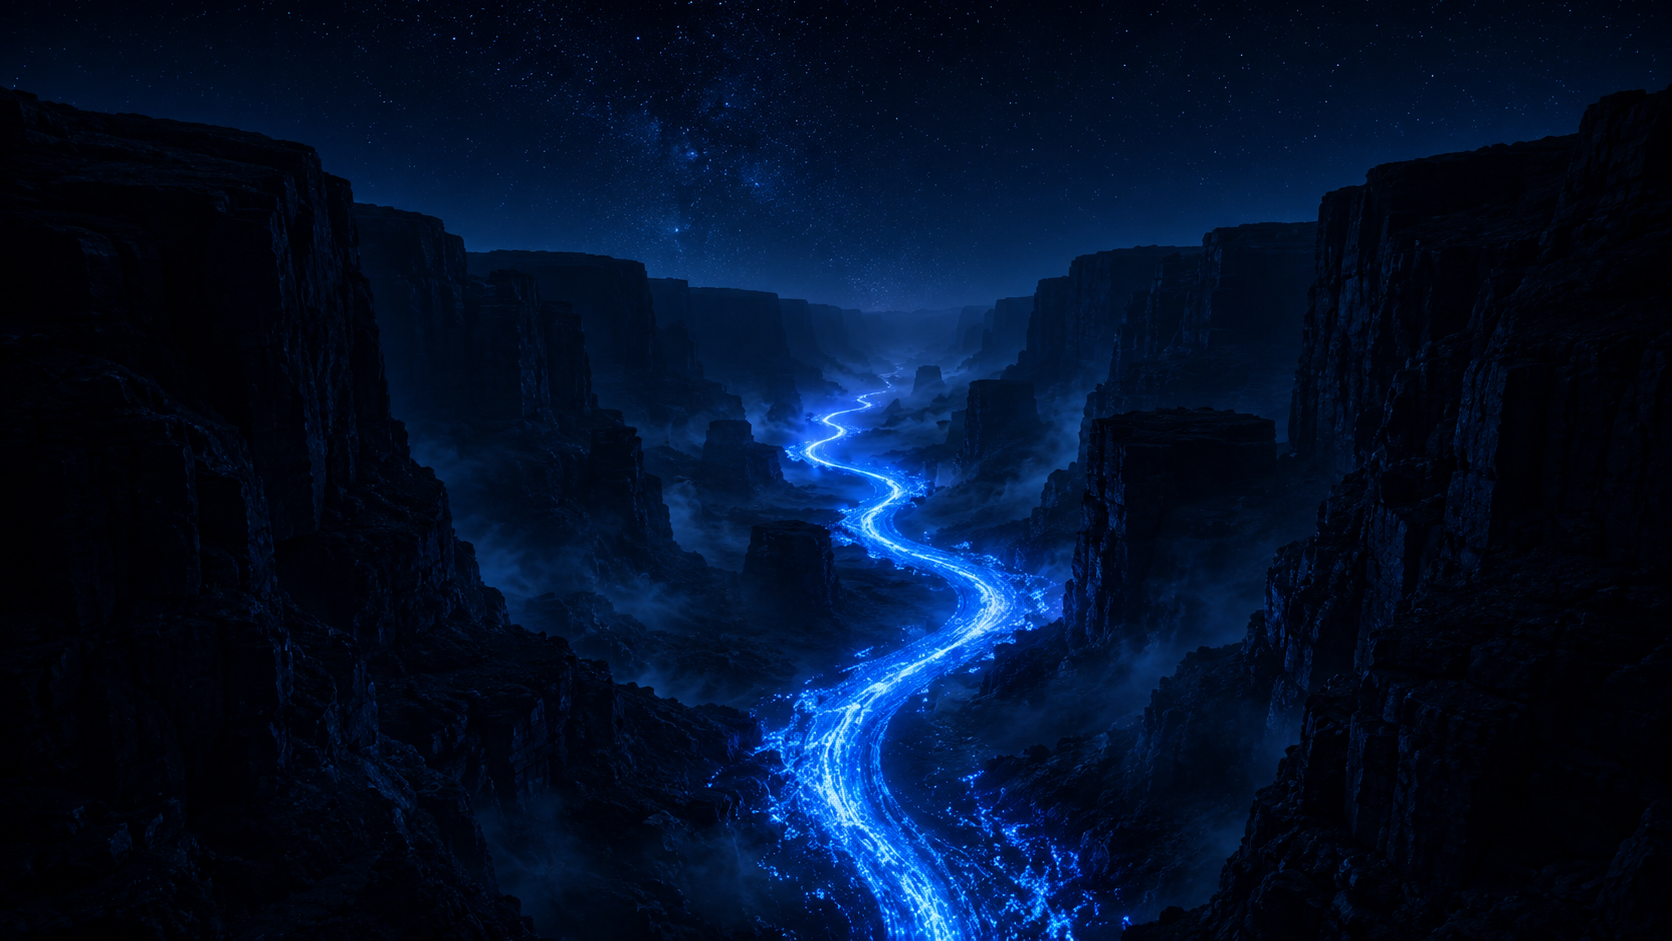
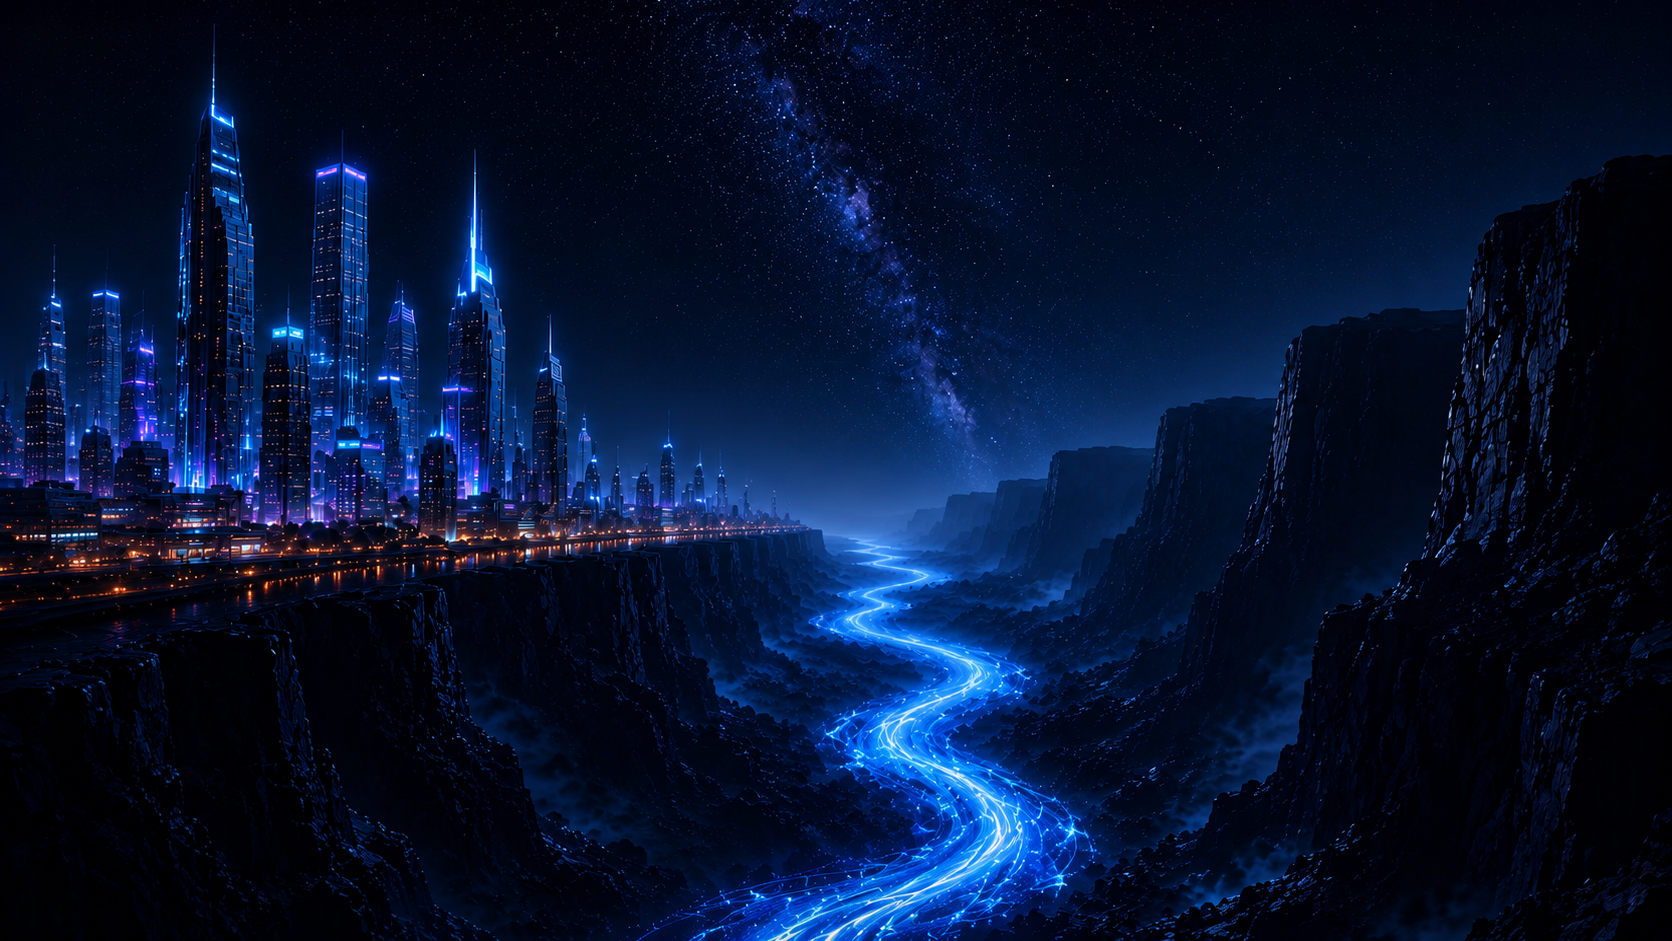
feat: add emissive window textures for enhanced city lighting; update hero section images and paths for improved visuals

diff --git a/components/Intro/scene/CityScape.tsx b/components/Intro/scene/CityScape.tsx
@@ -4,7 +4,7 @@ import { useLayoutEffect, useMemo, useRef } from "react";
 import { useFrame } from "@react-three/fiber";
 import * as THREE from "three";
 import { INTRO_DURATION, clamp01, windowProgress } from "./timeline";
-import { getWindowGridTexture } from "./glowTexture";
+import { getWindowGridTexture, getWindowEmissiveTexture } from "./glowTexture";
 import { STAR_POSITION } from "./path";
 
 function seeded(i: number, salt: number) {
@@ -61,6 +61,22 @@ export function CityScape({ isMobile }: { isMobile: boolean }) {
     return { tower, round, podium };
   }, []);
 
+  // Emissive counterpart to windowMaps, same repeats so the glow mask
+  // lines up pane-for-pane with the diffuse grid it's layered under.
+  const windowEmissiveMaps = useMemo(() => {
+    const base = getWindowEmissiveTexture();
+    const tower = base.clone();
+    tower.repeat.set(3, 9);
+    tower.needsUpdate = true;
+    const round = base.clone();
+    round.repeat.set(5, 9);
+    round.needsUpdate = true;
+    const podium = base.clone();
+    podium.repeat.set(4, 2.5);
+    podium.needsUpdate = true;
+    return { tower, round, podium };
+  }, []);
+
   const data = useMemo(() => {
     const dummy = new THREE.Object3D();
     const buildingMatrices: THREE.Matrix4[] = [];
@@ -104,12 +120,15 @@ export function CityScape({ isMobile }: { isMobile: boolean }) {
       // to still land in frame than a distant one does), which is why
       // the skyline used to only "arrive" several seconds in once the
       // camera had flown far enough for its own offset to look small
-      // by comparison. Pulling the near end of the range inward tapers
-      // buildings closer to the road the nearer they are to the start,
-      // so a chunk of skyline is reliably inside the frustum from the
-      // very first frame instead of leaving it to chance.
+      // by comparison. Shrinking the *spread* (not the floor) tapers
+      // these buildings toward the near edge of the flanking band the
+      // nearer they are to the start, so a chunk of skyline is reliably
+      // inside the frustum from the very first frame — the floor stays
+      // fixed at 11 (HighwayRoad's plane is only 8 units to its edge;
+      // see the x >= 11 invariant documented in Ground.tsx) so this
+      // never pulls a building onto the road itself.
       const startBias = clamp01((z - 15) / 40);
-      const x = side * (11 - startBias * 6 + seeded(i, 1) * (24 - startBias * 8));
+      const x = side * (11 + seeded(i, 1) * (24 - startBias * 16));
       // How close this building sits to the star waiting at the end of
       // the highway — buildings in that final stretch are the ones the
       // star's own light actually washes over as the camera arrives, so
@@ -235,7 +254,13 @@ export function CityScape({ isMobile }: { isMobile: boolean }) {
       dummy.rotation.set(0, 0, 0);
       dummy.updateMatrix();
       windowAMatrices.push(dummy.matrix.clone());
-      windowAColors.push(new THREE.Color(accent));
+      // Lerped toward white rather than the raw accent hue — a flat
+      // saturated color under additive blending still reads as a
+      // colored strip, not a light that's actually switched on; mixing
+      // in white pushes every channel up (not just the ones the accent
+      // already maxes out), which is what makes it read as a bright,
+      // hot light source instead of a tinted panel.
+      windowAColors.push(new THREE.Color(accent).lerp(new THREE.Color("#ffffff"), 0.4));
 
       // Facade B: the opposite edge, so towers still glow when the
       // path curves and briefly reveals their far side.
@@ -249,7 +274,10 @@ export function CityScape({ isMobile }: { isMobile: boolean }) {
       dummy.updateMatrix();
       windowBMatrices.push(dummy.matrix.clone());
       windowBColors.push(
-        new THREE.Color(ACCENTS[Math.floor(seeded(i, 62) * ACCENTS.length)])
+        new THREE.Color(ACCENTS[Math.floor(seeded(i, 62) * ACCENTS.length)]).lerp(
+          new THREE.Color("#ffffff"),
+          0.4
+        )
       );
 
       // A random subset of tall (non-round) buildings tapers into a
@@ -285,7 +313,7 @@ export function CityScape({ isMobile }: { isMobile: boolean }) {
       dummy.updateMatrix();
       roofGlowMatrices.push(dummy.matrix.clone());
       roofGlowColors.push(
-        new THREE.Color(accent).lerp(new THREE.Color("#ffffff"), starProximity * 0.55)
+        new THREE.Color(accent).lerp(new THREE.Color("#ffffff"), 0.3 + starProximity * 0.55)
       );
 
       // Parapet ledge — a slight overhang where a box tower's walls
@@ -502,22 +530,23 @@ export function CityScape({ isMobile }: { isMobile: boolean }) {
     // brighter on a smaller screen, same reasoning as the body albedo
     // and rig light intensity above.
     const mobileBoost = isMobile ? 0.14 : 0;
-    const windowOpacity = Math.min(1, 0.9 + portalBoost + mobileBoost);
-
+    // Windows are lit at full opacity throughout rather than ramping up
+    // from a dimmer baseline — the city should read as already-lit
+    // from the very first frame, not gradually brightening.
     [windowsARef, windowsBRef].forEach((ref) => {
       const mat = ref.current?.material as THREE.MeshBasicMaterial | undefined;
-      if (mat) mat.opacity = windowOpacity;
+      if (mat) mat.opacity = 1;
     });
 
     const roofMat = roofGlowRef.current?.material as
       | THREE.MeshBasicMaterial
       | undefined;
-    if (roofMat) roofMat.opacity = Math.min(1, 0.35 + Math.sin(t * 1.1) * 0.15 + mobileBoost);
+    if (roofMat) roofMat.opacity = Math.min(1, 0.55 + Math.sin(t * 1.1) * 0.15 + mobileBoost);
 
     const padMat = landingPadsRef.current?.material as
       | THREE.MeshBasicMaterial
       | undefined;
-    if (padMat) padMat.opacity = Math.min(1, 0.55 + Math.sin(t * 1.6) * 0.25 + mobileBoost);
+    if (padMat) padMat.opacity = Math.min(1, 0.7 + Math.sin(t * 1.6) * 0.25 + mobileBoost);
 
     const antennaMat = antennaLightRef.current?.material as
       | THREE.MeshBasicMaterial
@@ -541,8 +570,12 @@ export function CityScape({ isMobile }: { isMobile: boolean }) {
         for (let s = 0; s < steps; s++) {
           const idx = flickerCursor.current % count;
           flickerCursor.current++;
-          const lit = seeded(idx, Math.floor(t * 0.5)) > 0.4;
-          flickerColor.set(lit ? ACCENTS[idx % ACCENTS.length] : "#050506");
+          const lit = seeded(idx, Math.floor(t * 0.5)) > 0.25;
+          if (lit) {
+            flickerColor.set(ACCENTS[idx % ACCENTS.length]).lerp(new THREE.Color("#ffffff"), 0.4);
+          } else {
+            flickerColor.set("#050506");
+          }
           meshA.setColorAt(idx, flickerColor);
           meshB.setColorAt((idx + 7) % count, flickerColor);
         }
@@ -580,10 +613,19 @@ export function CityScape({ isMobile }: { isMobile: boolean }) {
       <instancedMesh ref={buildingsRef} args={[undefined, undefined, count]}>
         <boxGeometry args={[1, 1, 1]} />
         {isMobile ? (
-          <meshLambertMaterial map={windowMaps.tower} fog />
+          <meshLambertMaterial
+            map={windowMaps.tower}
+            emissiveMap={windowEmissiveMaps.tower}
+            emissive="#ffffff"
+            emissiveIntensity={1.6}
+            fog
+          />
         ) : (
           <meshPhongMaterial
             map={windowMaps.tower}
+            emissiveMap={windowEmissiveMaps.tower}
+            emissive="#ffffff"
+            emissiveIntensity={1.4}
             specular="#3a4a66"
             shininess={22}
             fog
@@ -601,10 +643,19 @@ export function CityScape({ isMobile }: { isMobile: boolean }) {
       <instancedMesh ref={roundTowersRef} args={[undefined, undefined, count]}>
         <cylinderGeometry args={[0.72, 1, 1, 10]} />
         {isMobile ? (
-          <meshLambertMaterial map={windowMaps.round} fog />
+          <meshLambertMaterial
+            map={windowMaps.round}
+            emissiveMap={windowEmissiveMaps.round}
+            emissive="#ffffff"
+            emissiveIntensity={1.6}
+            fog
+          />
         ) : (
           <meshPhongMaterial
             map={windowMaps.round}
+            emissiveMap={windowEmissiveMaps.round}
+            emissive="#ffffff"
+            emissiveIntensity={1.4}
             specular="#3a4a66"
             shininess={22}
             fog
@@ -615,10 +666,19 @@ export function CityScape({ isMobile }: { isMobile: boolean }) {
       <instancedMesh ref={podiumsRef} args={[undefined, undefined, count]}>
         <boxGeometry args={[1, 1, 1]} />
         {isMobile ? (
-          <meshLambertMaterial map={windowMaps.podium} fog />
+          <meshLambertMaterial
+            map={windowMaps.podium}
+            emissiveMap={windowEmissiveMaps.podium}
+            emissive="#ffffff"
+            emissiveIntensity={1.6}
+            fog
+          />
         ) : (
           <meshPhongMaterial
             map={windowMaps.podium}
+            emissiveMap={windowEmissiveMaps.podium}
+            emissive="#ffffff"
+            emissiveIntensity={1.4}
             specular="#3a4a66"
             shininess={18}
             fog

diff --git a/components/sections/HeroRiverFlow.tsx b/components/sections/HeroRiverFlow.tsx
@@ -42,8 +42,13 @@ function smoothPath(points: Point[]): string {
 }
 
 // Native pixel dimensions of public/herodesktop.png / public/heromobile.png.
+// Both images were regenerated with a city skyline sharing the frame
+// with the canyon (previously canyon-only), which shifted the river
+// and — for mobile — changed the image's own aspect ratio, so both
+// this viewBox and the traced paths below had to be redone against
+// the new artwork.
 const DESKTOP_VIEWBOX = "0 0 1672 941";
-const MOBILE_VIEWBOX = "0 0 941 1672";
+const MOBILE_VIEWBOX = "0 0 853 1844";
 
 // The river's distant tip fades in gradually in the source images —
 // too faintly for the flow overlay to have any real glow to blend
@@ -52,32 +57,39 @@ const MOBILE_VIEWBOX = "0 0 941 1672";
 // bright enough to hide it in. These are the (y0, y1) bounds, in each
 // viewBox's own pixel space, over which the overlay ramps from
 // invisible to fully visible.
-const DESKTOP_FADE: [number, number] = [260, 420];
-const MOBILE_FADE: [number, number] = [560, 780];
+const DESKTOP_FADE: [number, number] = [555, 705];
+const MOBILE_FADE: [number, number] = [820, 970];
 
 const DESKTOP_PATH = smoothPath([
-  [871, 260], [872, 280], [875, 300], [879, 320], [882, 340],
-  [880, 360], [871, 380], [858, 400], [844, 420], [839, 440],
-  [844, 460], [853, 480], [863, 500], [880, 520], [896, 540],
-  [913, 560], [936, 580], [957, 600], [967, 620], [964, 640],
-  [950, 660], [926, 680], [896, 700], [871, 720], [852, 740],
-  [840, 760], [837, 780], [843, 800], [853, 820], [868, 840],
-  [884, 860], [898, 880], [911, 900], [918, 920], [923, 940],
+  [897, 555], [897, 565], [891, 575], [890, 585], [883, 595],
+  [872, 605], [870, 615], [882, 625], [897, 635], [919, 645],
+  [943, 655], [959, 665], [965, 675], [960, 685], [946, 695],
+  [930, 705], [914, 715], [903, 725], [898, 735], [901, 745],
+  [910, 755], [925, 765], [941, 775], [956, 785], [973, 795],
+  [986, 805], [996, 815], [1000, 825], [1000, 835], [994, 845],
+  [984, 855], [969, 865], [952, 875], [930, 885], [905, 895],
+  [880, 905], [857, 915], [844, 925], [833, 935],
 ]);
 
 const MOBILE_PATH = smoothPath([
-  [507, 560], [506, 580], [504, 600], [502, 620], [500, 640],
-  [497, 660], [491, 680], [484, 700], [476, 720], [469, 740],
-  [468, 760], [475, 780], [484, 800], [489, 820], [486, 840],
-  [476, 860], [462, 880], [455, 900], [459, 920], [475, 940],
-  [499, 960], [525, 980], [543, 1000], [558, 1020], [561, 1040],
-  [551, 1060], [533, 1080], [512, 1100], [482, 1120], [456, 1140],
-  [434, 1160], [416, 1180], [405, 1200], [403, 1220], [405, 1240],
-  [413, 1260], [421, 1280], [431, 1300], [441, 1320], [453, 1340],
-  [465, 1360], [479, 1380], [494, 1400], [509, 1420], [519, 1440],
-  [529, 1460], [538, 1480], [548, 1500], [559, 1520], [569, 1540],
-  [578, 1560], [581, 1580], [580, 1600], [569, 1620], [564, 1640],
-  [556, 1660],
+  [450, 820], [455, 832], [458, 844], [466, 856], [475, 868],
+  [478, 880], [480, 892], [477, 904], [471, 916], [462, 928],
+  [455, 940], [448, 952], [449, 964], [454, 976], [463, 988],
+  [474, 1000], [480, 1012], [481, 1024], [474, 1036], [461, 1048],
+  [445, 1060], [431, 1072], [418, 1084], [408, 1096], [401, 1108],
+  [399, 1120], [402, 1132], [408, 1144], [423, 1156], [442, 1168],
+  [461, 1180], [478, 1192], [494, 1204], [505, 1216], [514, 1228],
+  [519, 1240], [523, 1252], [522, 1264], [519, 1276], [513, 1288],
+  [507, 1300], [497, 1312], [487, 1324], [473, 1336], [455, 1348],
+  [436, 1360], [418, 1372], [402, 1384], [390, 1396], [382, 1408],
+  [376, 1420], [370, 1432], [365, 1444], [360, 1456], [357, 1468],
+  [355, 1480], [353, 1492], [354, 1504], [357, 1516], [361, 1528],
+  [367, 1540], [377, 1552], [387, 1564], [398, 1576], [409, 1588],
+  [420, 1600], [428, 1612], [435, 1624], [438, 1636], [442, 1648],
+  [445, 1660], [451, 1672], [457, 1684], [464, 1696], [469, 1708],
+  [474, 1720], [477, 1732], [478, 1744], [480, 1756], [481, 1768],
+  [481, 1780], [480, 1792], [478, 1804], [475, 1816], [473, 1828],
+  [470, 1840],
 ]);
 
 const SPARK_COUNT = 11;

diff --git a/components/sections/WhyWeExistSection.tsx b/components/sections/WhyWeExistSection.tsx
@@ -251,7 +251,7 @@ function AboutMDSSphere() {
 
       <motion.div
         className="relative w-full h-full"
-        animate={{ y: [0, -14, 0], rotate: [-1.5, 1.5, -1.5] }}
+        animate={{ y: [0, -14, 0] }}
         transition={{ duration: 8, repeat: Infinity, ease: "easeInOut" }}
         style={{
           maskImage:
@@ -262,6 +262,15 @@ function AboutMDSSphere() {
           WebkitMaskComposite: "source-in",
         } as CSSProperties}
       >
+        {/* Static base — the podium, connecting beam, and a fallback
+            copy of the sphere itself. Never rotates: the podium is a
+            platform the sphere sits on, not part of the spinning body,
+            so it has to hold still while the sphere overlay above it
+            turns. Its copy of the sphere only shows through at the
+            rotating layer's feathered edge, where that layer fades to
+            transparent — since both layers share the same source image
+            at rotation 0, that seam is invisible rather than a visible
+            "second sphere" underneath. */}
         <Image
           src="/about.jpeg"
           alt="MDS — a living planet of ideas"
@@ -270,6 +279,34 @@ function AboutMDSSphere() {
           sizes="300px"
           className="object-contain"
         />
+        {/* Rotating overlay — a soft circular cutout of just the ball
+            itself, pre-masked in about-sphere.png tight to its own rim
+            so it excludes the ring entirely (the ring is far wider
+            than the ball and would otherwise have to be included or
+            cut off mid-band as it rotated out of alignment with its
+            own static remainder on the base layer below — visibly
+            "detaching" from the rest of the composition). Leaving the
+            ring on the static base means it stays put, Saturn-style,
+            while just the ball spins inside it. Pivots on the ball's
+            own center (not the full artwork's center, which sits
+            lower toward the podium) so it spins in place instead of
+            swinging in an arc. */}
+        <motion.div
+          className="absolute inset-0"
+          animate={{ rotate: 360 }}
+          transition={{ duration: 18, repeat: Infinity, ease: "linear" }}
+          style={{ transformOrigin: "51.2% 39.7%" }}
+        >
+          <Image
+            src="/about-sphere.png"
+            alt=""
+            aria-hidden
+            fill
+            quality={100}
+            sizes="300px"
+            className="object-contain"
+          />
+        </motion.div>
       </motion.div>
     </div>
   );

diff --git a/components/Intro/scene/glowTexture.ts b/components/Intro/scene/glowTexture.ts
@@ -152,6 +152,55 @@ export function getWindowGridTexture(): THREE.Texture {
   return cachedWindowGrid;
 }
 
+let cachedWindowEmissive: THREE.Texture | null = null;
+
+/** Same grid, same lit/unlit seed as getWindowGridTexture (so the two
+ * stay pixel-aligned when applied to the same UVs at the same
+ * `.repeat`), but rendered as a pure emissive mask: black everywhere
+ * except the lit panes, which are pushed to full brightness. Used as
+ * an `emissiveMap` rather than `map` — emissive output is added on
+ * top of a material's lit/tinted diffuse color rather than multiplied
+ * into it, so a lit window glows at full brightness regardless of how
+ * dark that particular building's own body tint is, the way an actual
+ * light behind glass would outshine the concrete around it instead of
+ * being dimmed by it. */
+export function getWindowEmissiveTexture(): THREE.Texture {
+  if (cachedWindowEmissive) return cachedWindowEmissive;
+  const cols = 4;
+  const rows = 10;
+  const cell = 40;
+  const canvas = document.createElement("canvas");
+  canvas.width = cols * cell;
+  canvas.height = rows * cell;
+  const ctx = canvas.getContext("2d")!;
+
+  ctx.fillStyle = "#000000";
+  ctx.fillRect(0, 0, canvas.width, canvas.height);
+
+  for (let r = 0; r < rows; r++) {
+    if (r % 4 === 3) continue; // spandrel band — no window on this floor
+    for (let c = 0; c < cols; c++) {
+      const idx = r * cols + c;
+      const lit = seeded(idx, 41) > 0.3;
+      if (!lit) continue;
+      const x = c * cell;
+      const y = r * cell;
+      const pad = cell * 0.2;
+      const w = cell - pad * 2;
+      const h = cell - pad * 2;
+      const warm = seeded(idx, 42) > 0.5;
+      ctx.fillStyle = warm ? "#fff2cf" : "#eaf6ff";
+      ctx.fillRect(x + pad, y + pad, w, h);
+    }
+  }
+
+  cachedWindowEmissive = new THREE.CanvasTexture(canvas);
+  cachedWindowEmissive.wrapS = THREE.RepeatWrapping;
+  cachedWindowEmissive.wrapT = THREE.RepeatWrapping;
+  cachedWindowEmissive.colorSpace = THREE.SRGBColorSpace;
+  return cachedWindowEmissive;
+}
+
 /** A small solid circular sprite (hard-edged), used as the alpha mask
  * for Points-based particle bursts so they render as soft dots instead
  * of the flat squares a bare PointsMaterial falls back to. */
